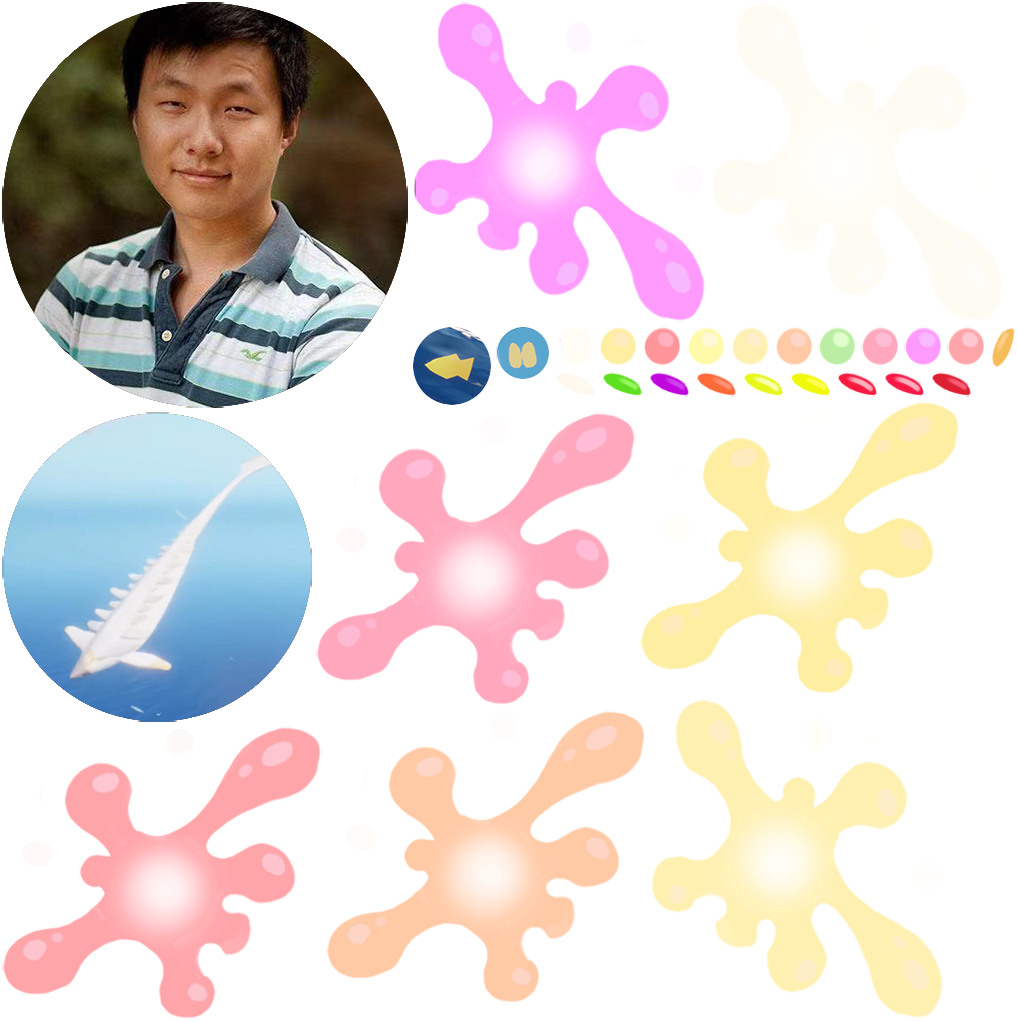
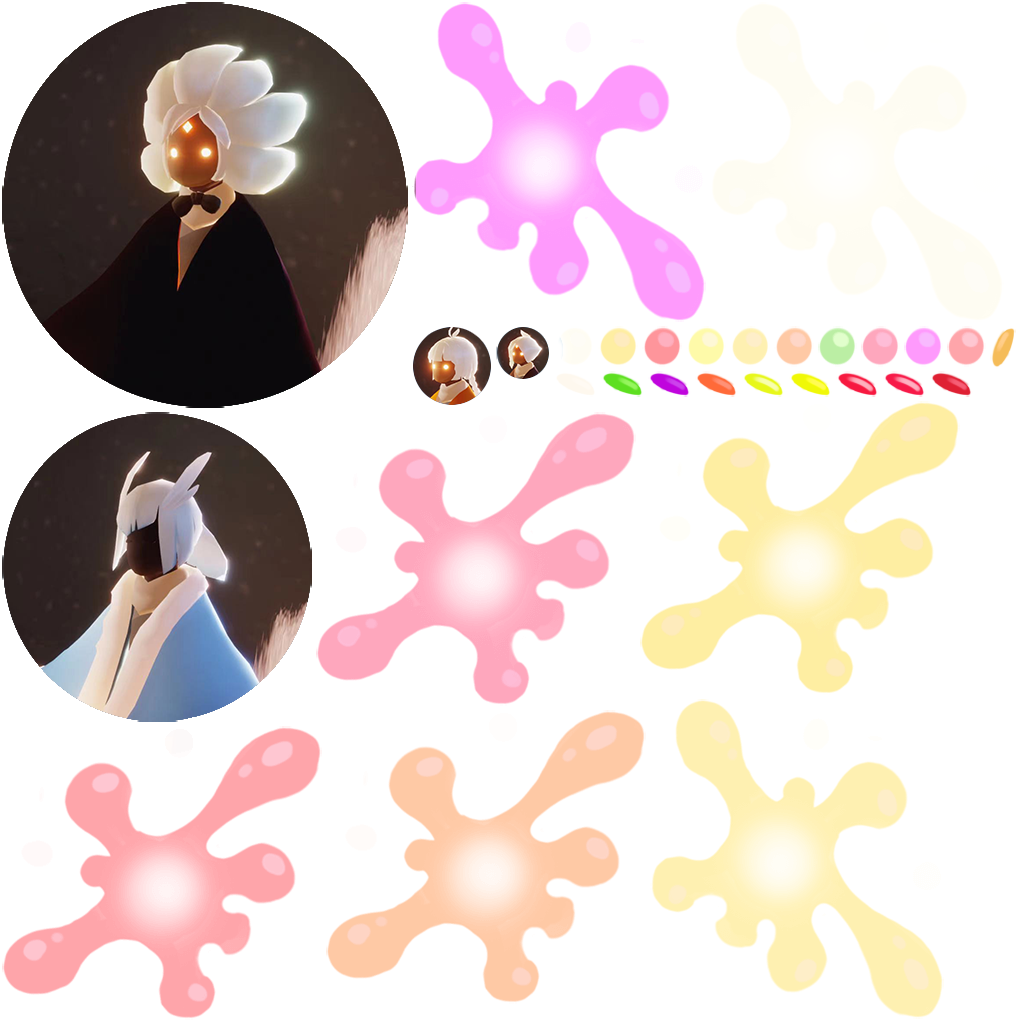
nitial commit

Changed region(s): [[0.0, 0.0, 0.3959, 0.728], [0.3959, 0.3033, 0.5481, 0.3943]]

diff --git a/index.html b/index.html
@@ -4,7 +4,7 @@
 <head>
     <meta charset="utf-8">
 
-    <title>合成光遇生物链</title>
+    <title>合成光遇大佬</title>
 
     <!--http://www.html5rocks.com/en/mobile/mobifying/-->
     <meta name="viewport" content="width=device-width,user-scalable=no,initial-scale=1, minimum-scale=1,maximum-scale=1" />
@@ -109,7 +109,7 @@
             //        console.log("window.navigator.language",window.navigator.language);
 
             if (window.navigator.language == "zh-CN" || window.navigator.language == "zh-cn") {
-                document.title = "合成光遇生物链";
+                document.title = "合成光遇大佬";
             } 
 
 

diff --git a/README.md b/README.md
@@ -1,4 +1,4 @@
-# 合成光遇生物链（叶子） #
+# 合成光遇大佬（叶子） #
 
-合成大西瓜的光遇版本。合成顺序为：蝴蝶->金鱼->鸽子->螃蟹->水母->透明鲲->奥利奥->大鲲->皮皮虾->大鱼->小陈。如对合成顺序有异议，请提交申请与我们一同迫害。
+合成大西瓜的光遇版本。合成顺序为：萌新->双马尾->泡面头->黄鼠狼狮子->雨妈->卡卡->龙骨->咖喱王子->白鸟->鹿头->烛子。如对合成顺序有异议，请提交申请与我们一同迫害。
 
